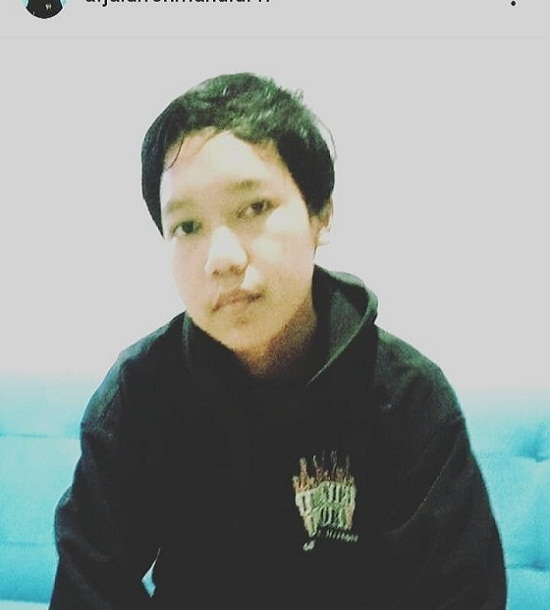
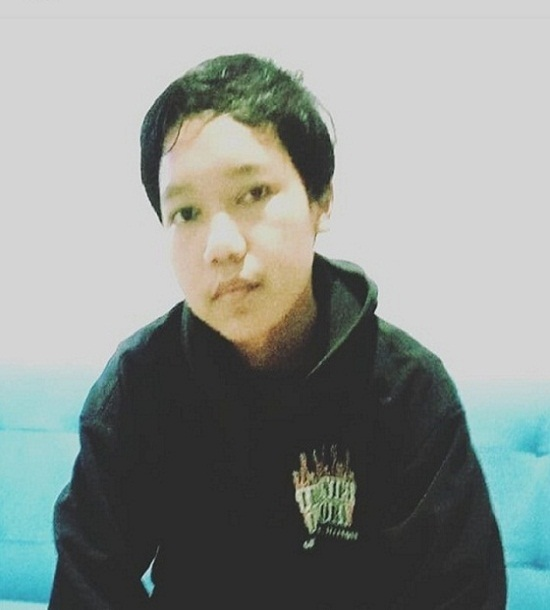
update 20092022

diff --git a/profil.html b/profil.html
@@ -111,10 +111,10 @@
                             <div class="col-md-8">
                                 <div class="card-body">
                                     <h5 class="card-title">Agil Saputra</h5>
-                                    <p class="card-text">"Apakah bulan lebih terang daripada matahari wahai pohon ?"</p>
+                                    <p class="card-text">"笑顔とゲイであることを忘れないで"</p>
                                     <!--span class="badge rounded-pill bg-primary">Primary</!--span-->
                                     <!--p class="card-text"><small class="text-muted">2020 - 2023</small></!--p-->
-                                    <div class="row">
+                                    <div class="row align-self-end">
                                         <div class="col-2">
                                             <a href="https://www.instagram.com/giiillll_/" type="button" class="lingkaran1">
                                                 <img src="/aset/poto profil/3721672-instagram_108066.png" alt="...">
@@ -178,7 +178,7 @@
                             <div class="col-md-8">
                                 <div class="card-body">
                                     <h5 class="card-title">Andika Dwi Pratama</h5>
-                                    <p class="card-text">"Bijaklah main sosmed, agar tidak jadi bapack - bapack prek</p>
+                                    <p class="card-text">"Bijaklah main sosmed, agar tidak jadi bapack - bapack prek"</p>
                                     <p class="card-text"><small class="text-muted"></small></p>
                                     <div class="row">
                                         <div class="col-2">
@@ -338,7 +338,7 @@
                     <div class="card mb-3 mt-3" style="max-width: auto;">
                         <div class="row g-0">
                             <div class="col-md-4">
-                                <img src="/aset/poto profil/majid.png" class="img-fluid rounded-start" alt="...">
+                                <img src="/aset/poto profil/majid.jpeg" class="img-fluid rounded-start" alt="...">
                             </div>
                             <div class="col-md-8">
                                 <div class="card-body">
@@ -409,7 +409,7 @@
                             <div class="col-md-8">
                                 <div class="card-body">
                                     <h5 class="card-title">Dewi Rahmadani Putri</h5>
-                                    <p class="card-text">"Belajar yang bener. Biar dapet kerjaan yang enak. Biar tajir. Biar anak lo ga makan rumput"</p>
+                                    <p class="card-text">"Belajar yang bener. Biar dapet kerjaan yang enak. Biar anak lo ga makan rumput"</p>
                                     <p class="card-text"><small class="text-muted"></small></p>
                                     <div class="row">
                                         <div class="col-2">
@@ -475,7 +475,7 @@
                             <div class="col-md-8">
                                 <div class="card-body">
                                     <h5 class="card-title">Dio Herlambang</h5>
-                                    <p class="card-text">"lah hiyak, nyantuiiy bee"</p>
+                                    <p class="card-text">"lah hiyak, nyantuiiy bee. wartik disokin"</p>
                                     <p class="card-text"><small class="text-muted"></small></p>
                                     <div class="row">
                                         <div class="col-2">
@@ -602,12 +602,12 @@
                     <div class="card mb-3 mt-3" style="max-width: auto;">
                         <div class="row g-0">
                             <div class="col-md-4">
-                                <img src="/aset/poto profil/rama.png" class="img-fluid rounded-start" alt="...">
+                                <img src="/aset/poto profil/rama.jpeg" class="img-fluid rounded-start" alt="...">
                             </div>
                             <div class="col-md-8">
                                 <div class="card-body">
                                     <h5 class="card-title">Fikri Ramadhan</h5>
-                                    <p class="card-text">"Bantu menjawab pertanyaan agil, YAAA NGGAKKKK LAHHGHHGHGH LOL"</p>
+                                    <p class="card-text">"Terkadang manusia lupa cara memanusiakan manusia."</p>
                                     <p class="card-text"><small class="text-muted"></small></p>
                                     <div class="row">
                                         <div class="col-2">
@@ -701,7 +701,7 @@
                     <div class="card mb-3 mt-3" style="max-width: auto;">
                         <div class="row g-0">
                             <div class="col-md-4">
-                                <img src="/aset/poto profil/eca.png" class="img-fluid rounded-start" alt="...">
+                                <img src="/aset/poto profil/eca.jpeg" class="img-fluid rounded-start" alt="...">
                             </div>
                             <div class="col-md-8">
                                 <div class="card-body">
@@ -772,7 +772,7 @@
                             <div class="col-md-8">
                                 <div class="card-body">
                                     <h5 class="card-title">Mochamad Fauzan Fawazry</h5>
-                                    <p class="card-text">"Lawak dex, karena yang ngelawak cuman si bandung bandung ga jelas itu, bikin kata yng bener dikit. LOL"</p>
+                                    <p class="card-text">"Lawak dex"</p>
                                     <p class="card-text"><small class="text-muted"></small></p>
                                     <div class="row">
                                         <div class="col-2">
@@ -805,7 +805,7 @@
                             <div class="col-md-8">
                                 <div class="card-body">
                                     <h5 class="card-title">Muhamad Ridwan</h5>
-                                    <p class="card-text">"Lulusan TKJ, kerjaan nya nguli. Tapi gak apa - apa sih, dari pada yang belajar sepeda"</p>
+                                    <p class="card-text">"Lawanlah takdir, supaya bertemu dengan pilihan mu."</p>
                                     <p class="card-text"><small class="text-muted"></small></p>
                                     <div class="row">
                                         <div class="col-2">
@@ -932,7 +932,7 @@
                     <div class="card mb-3 mt-3" style="max-width: auto;">
                         <div class="row g-0">
                             <div class="col-md-4">
-                                <img src="/aset/poto profil/hizbah.png" class="img-fluid rounded-start" alt="...">
+                                <img src="/aset/poto profil/hizbah.jpeg" class="img-fluid rounded-start" alt="...">
                             </div>
                             <div class="col-md-8">
                                 <div class="card-body">
@@ -998,7 +998,7 @@
                     <div class="card mb-3 mt-3" style="max-width: auto;">
                         <div class="row g-0">
                             <div class="col-md-4">
-                                <img src="/aset/poto profil/nesti.jpg" class="img-fluid rounded-start" alt="...">
+                                <img src="/aset/poto profil/nesti.jpeg" class="img-fluid rounded-start" alt="...">
                             </div>
                             <div class="col-md-8">
                                 <div class="card-body">
@@ -1262,7 +1262,7 @@
                     <div class="card mb-3 mt-3" style="max-width: auto;">
                         <div class="row g-0">
                             <div class="col-md-4">
-                                <img src="/aset/poto profil/witra.png" class="img-fluid rounded-start" alt="...">
+                                <img src="/aset/poto profil/Witra.jpeg" class="img-fluid rounded-start" alt="...">
                             </div>
                             <div class="col-md-8">
                                 <div class="card-body">

diff --git a/gallery.html b/gallery.html
@@ -33,7 +33,6 @@
 			</div>
 		</nav>
 
-
 		<!-- Per jumbotron -->
 		<div class="container">
 			<h1 class="display-5 mt-3">Gallery Page Class 12</h1>
@@ -44,6 +43,77 @@
 		<section id="gallery-1">
 			<div class="container">
 				<div class="row row-cols-2 row-cols-md-4">
+					<div class="col py-3">
+						<a href="/aset/19092022 (2).webp" target="_blank" title="19 September 2022">
+							<div class="img-wrap">
+								<img src="/aset/gallery/19092022 (2).webp" alt="pic by" class="img-fluid">
+							</div>
+						</a>
+					</div>
+					<div class="col py-3">
+						<a href="/aset/19092022.webp" target="_blank" title="19 September 2022">
+							<div class="img-wrap">
+								<img src="/aset/gallery/19092022.webp" alt="pic by" class="img-fluid">
+							</div>
+						</a>
+					</div>
+					<div class="col py-3">
+						<a href="/aset/16092022 (3).webp" target="_blank" title="16 September 2022">
+							<div class="img-wrap">
+								<img src="/aset/gallery/16092022 (3).webp" alt="pic by" class="img-fluid">
+							</div>
+						</a>
+					</div>
+					<div class="col py-3">
+						<a href="/aset/16092022.webp" target="_blank" title="16 September 2022">
+							<div class="img-wrap">
+								<img src="/aset/gallery/16092022.webp" alt="pic by" class="img-fluid">
+							</div>
+						</a>
+					</div>
+					<div class="col py-3">
+						<a href="/aset/16092022 (4).webp" target="_blank" title="16 September 2022">
+							<div class="img-wrap">
+								<img src="/aset/gallery/16092022 (4).webp" alt="pic by" class="img-fluid">
+							</div>
+						</a>
+					</div>
+					<div class="col py-3">
+						<a href="/aset/16092022 (2).webp" target="_blank" title="16 September 2022">
+							<div class="img-wrap">
+								<img src="/aset/gallery/16092022 (2).webp" alt="pic by" class="img-fluid">
+							</div>
+						</a>
+					</div>
+					<div class="col py-3">
+						<a href="/aset/16092022.jpeg" target="_blank" title="16 September 2022">
+							<div class="img-wrap">
+								<img src="/aset/gallery/16092022.jpeg" alt="pic by" class="img-fluid">
+							</div>
+						</a>
+					</div>
+					<div class="col py-3">
+						<a href="/aset/fauzan dan rama.webp" target="_blank" title="15 September 2022">
+							<div class="img-wrap">
+								<img src="/aset/gallery/fauzan dan rama.webp" alt="pic by" class="img-fluid">
+							</div>
+						</a>
+					</div>
+					<div class="col py-3">
+						<a href="/aset/ooooo.webp" target="_blank" title="15 September 2022">
+							<div class="img-wrap">
+								<img src="/aset/gallery/ooooo.webp" alt="pic by" class="img-fluid">
+							</div>
+						</a>
+					</div>
+					<div class="col py-3">
+						<a href="/aset/pppp.webp" target="_blank" title="15 September 2022
+Ket = ciss dulu banh">
+							<div class="img-wrap">
+								<img src="/aset/gallery/pppp.webp" alt="pic by" class="img-fluid">
+							</div>
+						</a>
+					</div>
 					<div class="col py-3">
 						<a href="/aset/foto bersama pak muklis (mantan wali kelas).webp" target="_blank" title="14 September 2022
 Ket = Foto bersama pak mukklis A.K.A Papih sesudah jam terakhir">
@@ -56,7 +126,7 @@ Ket = Foto bersama pak mukklis A.K.A Papih sesudah jam terakhir">
 						<a href="/aset/foto bersama riana sensei.webp" target="_blank" title="14 September 2022
 Ket = Sesi Foto bersama riana sensei seminggu sebelum UTS">
 							<div class="img-wrap">
-								<img src="/aset/foto bersama riana sensei.webp" alt="breakfast" class="img-fluid">
+								<img src="/aset/foto bersama riana sensei.webp" alt="pic by" class="img-fluid">
 							</div>
 						</a>
 					</div>
@@ -64,7 +134,7 @@ Ket = Sesi Foto bersama riana sensei seminggu sebelum UTS">
 						<a href="/aset/agil tertidur.webp" target="_blank" title="13 September 2022
 ket = Turu...">
 							<div class="img-wrap">
-								<img src="/aset/gallery/agil tertidur.webp" alt="breakfast" class="img-fluid">
+								<img src="/aset/gallery/agil tertidur.webp" alt="pic by" class="img-fluid">
 							</div>
 						</a>
 					</div>
@@ -72,7 +142,7 @@ ket = Turu...">
 						<a href="/aset/jaya esport.webp" target="_blank" title="13 September 2022
 ket = Salah satu tim e-sport terkuat di univers TKJ. JAYA E-SPORT!!!">
 							<div class="img-wrap">
-								<img src="/aset/gallery/jaya esport.webp" alt="breakfast" class="img-fluid">
+								<img src="/aset/gallery/jaya esport.webp" alt="pic by" class="img-fluid">
 							</div>
 						</a>
 					</div>
@@ -80,7 +150,7 @@ ket = Salah satu tim e-sport terkuat di univers TKJ. JAYA E-SPORT!!!">
 						<a href="/aset/agil love roby.webp" target="_blank" title="13 September 2022
 ket = Hmmmmmm....">
 							<div class="img-wrap">
-								<img src="/aset/gallery/agil love roby.webp" alt="breakfast" class="img-fluid">
+								<img src="/aset/gallery/agil love roby.webp" alt="pic by" class="img-fluid">
 							</div>
 						</a>
 					</div>
@@ -88,7 +158,7 @@ ket = Hmmmmmm....">
 						<a href="/aset/hisbah terheran - heran.webp" target="_blank" title="09 September 2022
 ket = Hisbah terheran heran dengan kegilaan dio">
 							<div class="img-wrap">
-								<img src="/aset/gallery/hisbah terheran - heran.webp" alt="breakfast" class="img-fluid">
+								<img src="/aset/gallery/hisbah terheran - heran.webp" alt="pic by" class="img-fluid">
 							</div>
 						</a>
 					</div>
@@ -96,7 +166,7 @@ ket = Hisbah terheran heran dengan kegilaan dio">
 						<a href="/aset/abang tampan dari mustikajaya.webp" target="_blank" title="09 September 2022
 ket = potret thomas slebew">
 							<div class="img-wrap">
-								<img src="/aset/gallery/abang tampan dari mustikajaya.webp" alt="breakfast" class="img-fluid">
+								<img src="/aset/gallery/abang tampan dari mustikajaya.webp" alt="pic by" class="img-fluid">
 							</div>
 						</a>
 					</div>
@@ -104,14 +174,14 @@ ket = potret thomas slebew">
 						<a href="/aset/pis bang.webp" target="_blank" title="09 September 2022
 ket = Dicari orang hilang, ciri - ciri berambut botak">
 							<div class="img-wrap">
-								<img src="/aset/gallery/pis bang.webp" alt="breakfast" class="img-fluid">
+								<img src="/aset/gallery/pis bang.webp" alt="pic by" class="img-fluid">
 							</div>
 						</a>
 					</div>
 					<div class="col py-3">
 						<a href="/aset/foto bersama bu fatma.jpg" target="_blank" title="07 September 2022">
 							<div class="img-wrap">
-								<img src="/aset/foto bersama bu fatma.jpg" alt="breakfast" class="img-fluid">
+								<img src="/aset/foto bersama bu fatma.jpg" alt="pic by" class="img-fluid">
 							</div>
 						</a>
 					</div>
@@ -596,13 +666,13 @@ ket = Dicari orang hilang, ciri - ciri berambut botak">
 						</a>
 					</div>
 
-					<div class="col py-3">
+					<!--div class="col py-3">
 						<a href="aset/61.jpg" target="_blank" title="">
 							<div class="img-wrap">
 								<img src="aset/61.jpg" alt="salad" class="img-fluid">
 							</div>
 						</a>
-					</div>
+					</div-->
 
 					<div class="col py-3">
 						<a href="aset/62.jpg" target="_blank" title="">
@@ -752,7 +822,7 @@ ket = Dicari orang hilang, ciri - ciri berambut botak">
 					<div class="col py-3">
 						<a href="/aset/acara buka puasa kelas 10.jpeg" target="_blank" title="">
 							<div class="img-wrap">
-								<img src="/aset/gallery/acara buka puasa kelas 10.jpeg" alt="breakfast" class="img-fluid">
+								<img src="/aset/gallery/acara buka puasa kelas 10.jpeg" alt="pic by adenya eca" class="img-fluid">
 							</div>
 						</a>
 					</div>
@@ -760,7 +830,7 @@ ket = Dicari orang hilang, ciri - ciri berambut botak">
 					<div class="col py-3">
 						<a href="/aset/Poto kelas 10 (1).jpeg" target="_blank" title="">
 							<div class="img-wrap">
-								<img src="/aset/gallery/Poto kelas 10 (1).jpeg" alt="breakfast" class="img-fluid">
+								<img src="/aset/gallery/Poto kelas 10 (1).jpeg" alt="pic by pa mukhlis" class="img-fluid">
 							</div>
 						</a>
 					</div>

diff --git a/index.html b/index.html
@@ -37,11 +37,13 @@
 		<div class="jumbotron bg-light">
 			<div class="container">
 				<h1 class="display-4">Hai!</h1>
-				<p class="lead">Terimakasih telah mengunjungi halaman website ini!</p>
+				<p class="lead">Terimakasih telah mengunjungi halaman website kelas tkj 3 angkatan 13 smk tinta emas
+					indonesia</p>
 				<hr class="my-4">
-				<p> Yang mau kirim - kirim pesan/masukan, klik tombol di bawah yaa! </p>
-				<a class="btn btn-outline-danger btn-lg" href="https://www.instagram.com/tekoajaib_3" role="button">Klik
-					here</a>
+				<p>Disini kamu bisa mendapatkan informasi tentang kelas ini dari mulai a sampai z. </br>dan yang mau
+					kirim - kirim pesan/masukan, klik tombol di bawah yaa! </p>
+				<a class="btn btn-outline-danger btn-lg" href="https://www.instagram.com/tekoajaib_3"
+					role="button">Kirim Pesan</a>
 			</div>
 		</div>
 		<!--- abaout --->
@@ -50,7 +52,7 @@
 				<h1 class="text-center my-5">Tentang Kelas</h1>
 				<div class="row row-cols-1 row-cols-md-1 row-cols-lg-2 mb-3">
 					<div class="col text-center">
-						<img src="/aset/home/kelas.jpeg" alt="about-img" class="w-100 rounded shadow">
+						<img src="/aset/home/foto kelas 12.jpeg" alt="about-img" class="w-100 rounded shadow">
 					</div>
 					<div class="col mt-4">
 						<p>
